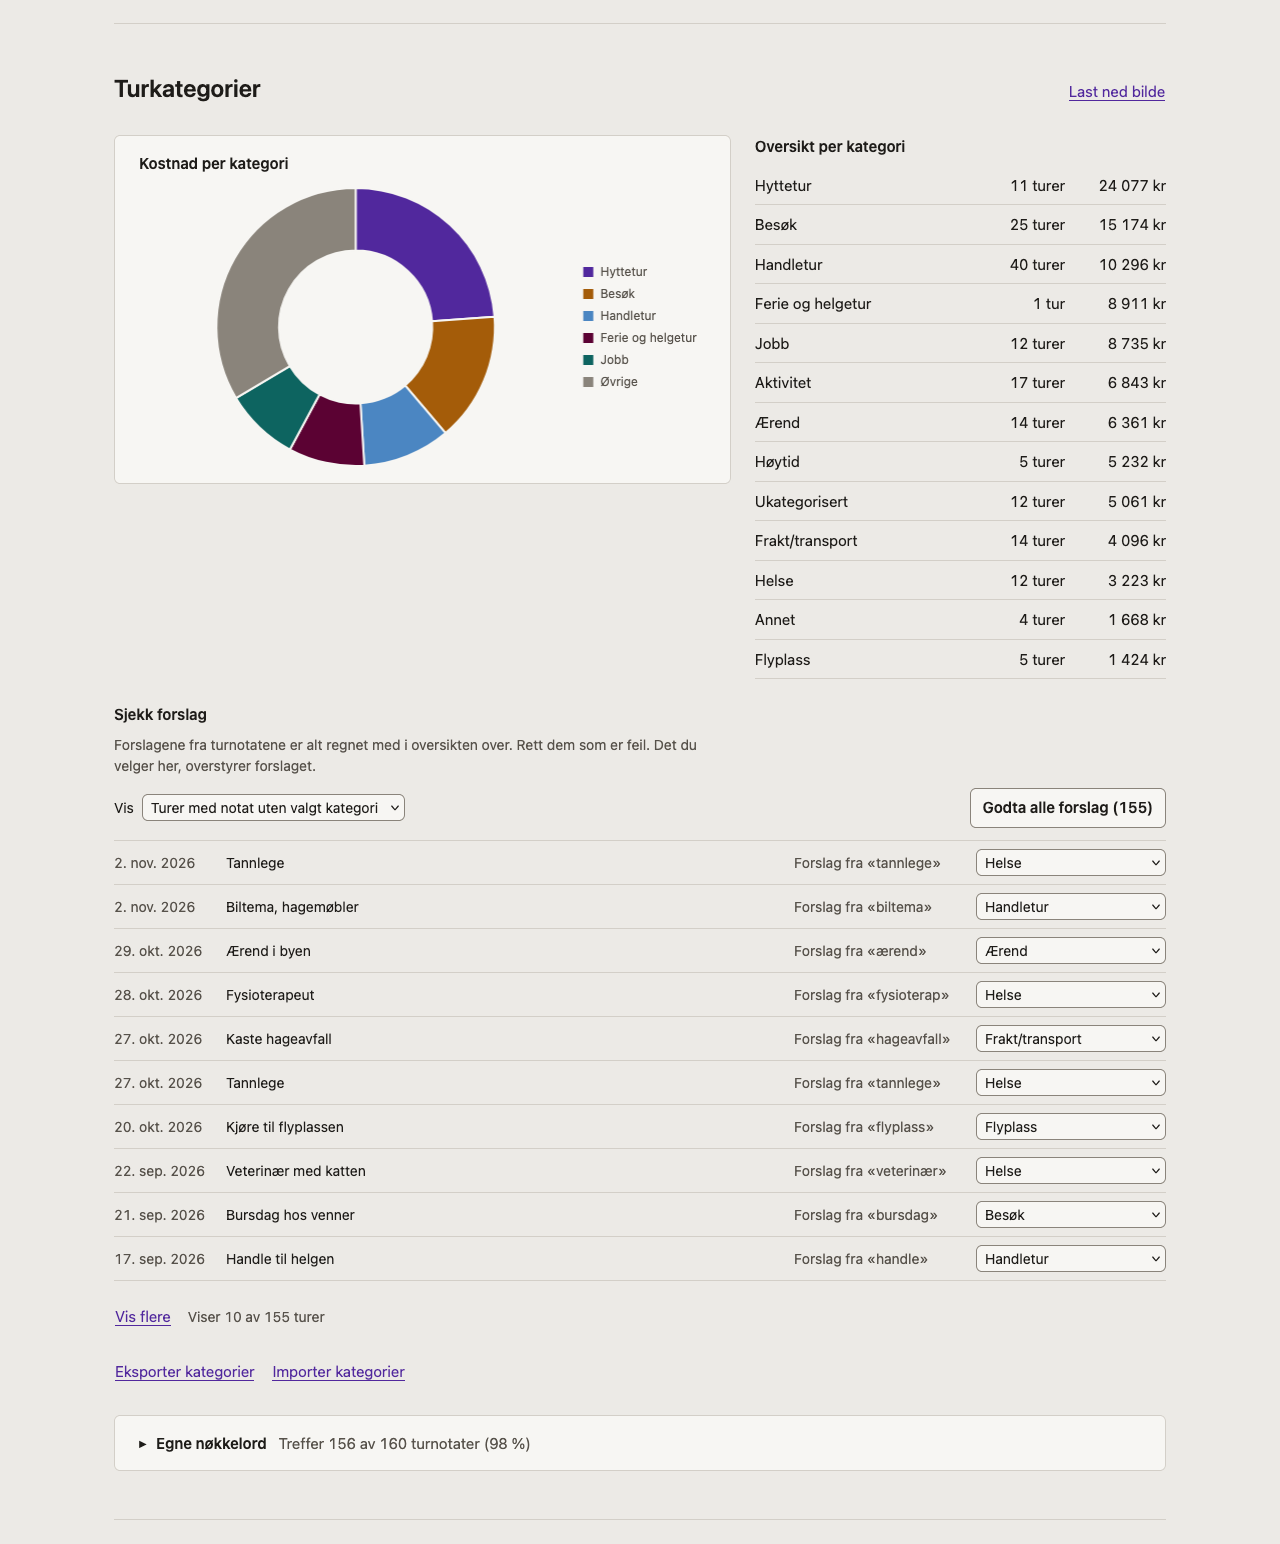
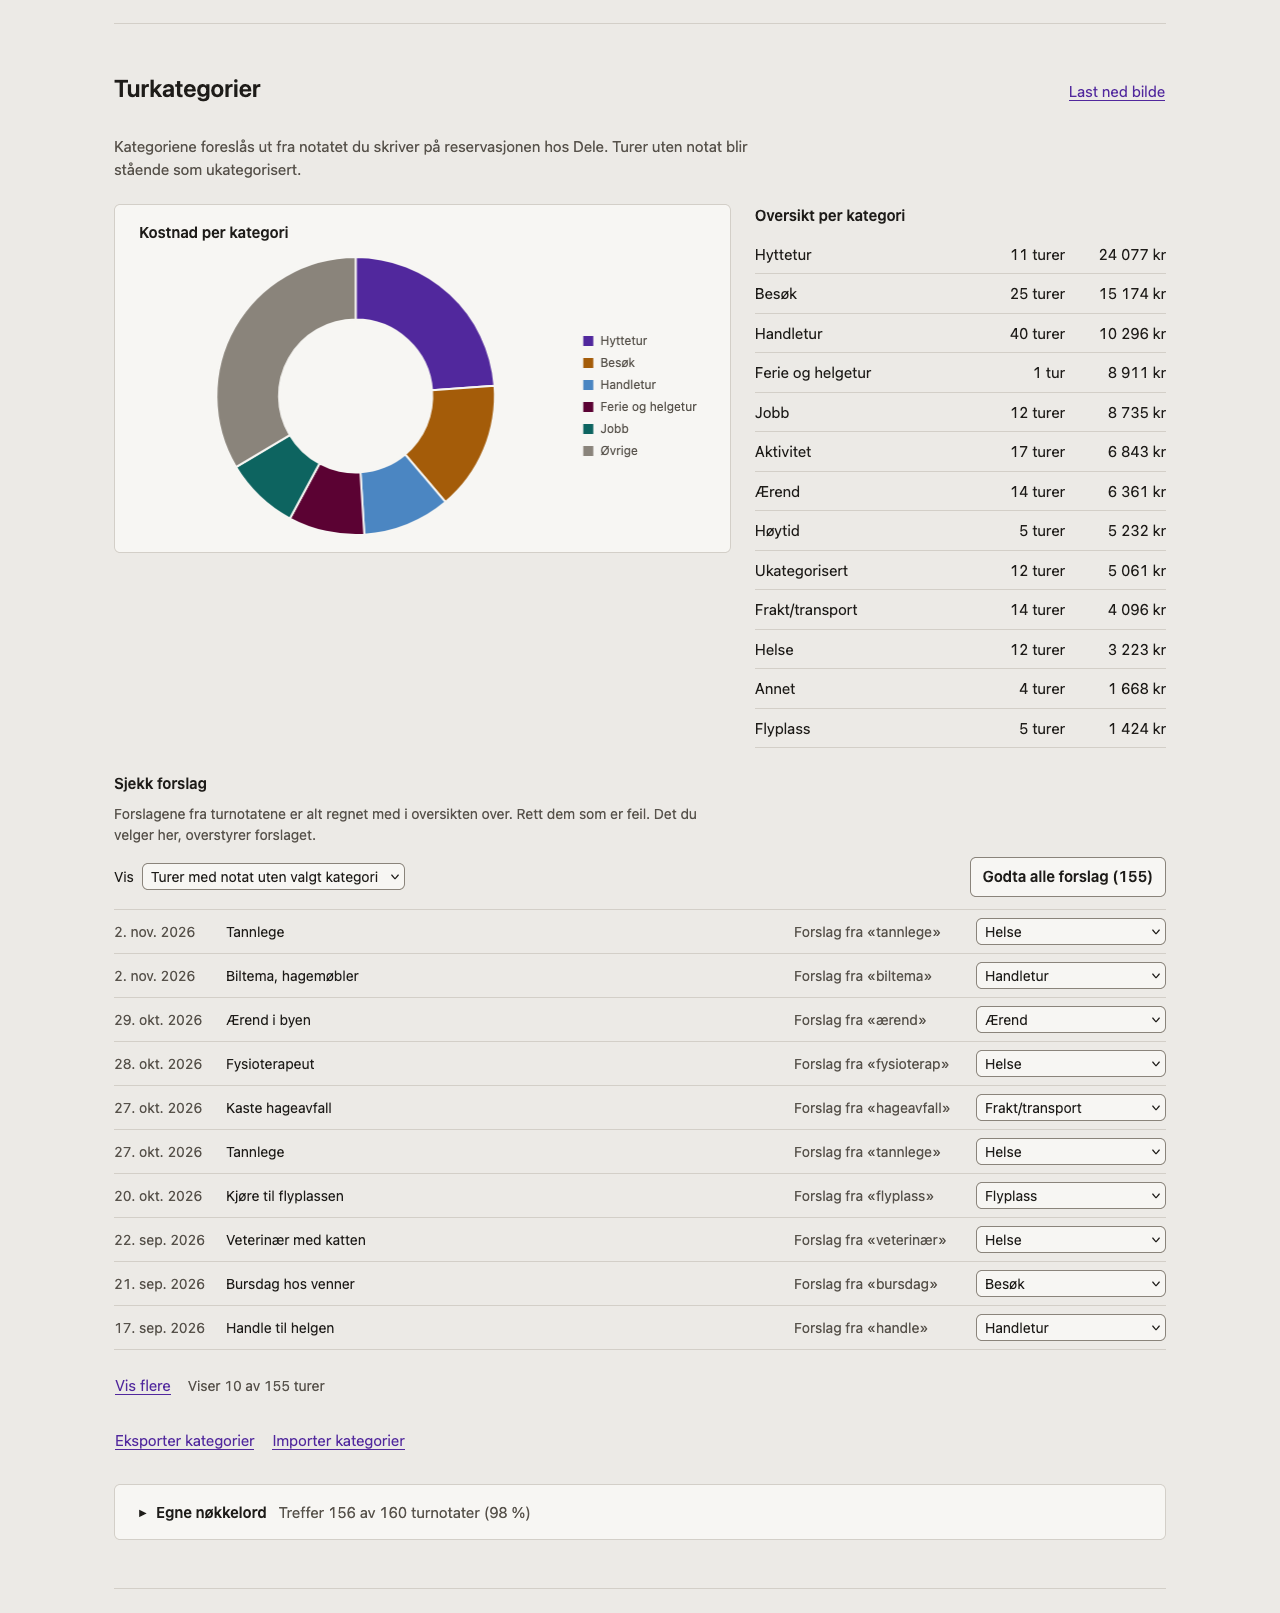
Turkategorier sier at kategoriene kommer fra notatet på reservasjonen

diff --git a/stats/dashboard/dashboard.html b/stats/dashboard/dashboard.html
@@ -302,6 +302,9 @@
         <h2 class="section__title" id="turkategorier-title">Turkategorier</h2>
         <button class="btn btn--quiet btn--export" type="button" data-section="turkategorier">Last ned bilde</button>
       </div>
+      <p class="section__help">
+        Kategoriene foreslås ut fra notatet du skriver på reservasjonen hos Dele. Turer uten notat eller uten treff blir ukategorisert.
+      </p>
 
       <div class="split">
         <div class="panel">

diff --git a/stats/dashboard/dashboard.css b/stats/dashboard/dashboard.css
@@ -312,6 +312,12 @@ a:focus-visible,
   gap: var(--space-4);
 }
 
+.section__help {
+  max-width: var(--measure);
+  margin-bottom: var(--space-5);
+  color: var(--color-text-secondary);
+}
+
 .section__title {
   font-size: var(--text-lg);
   font-weight: 600;
